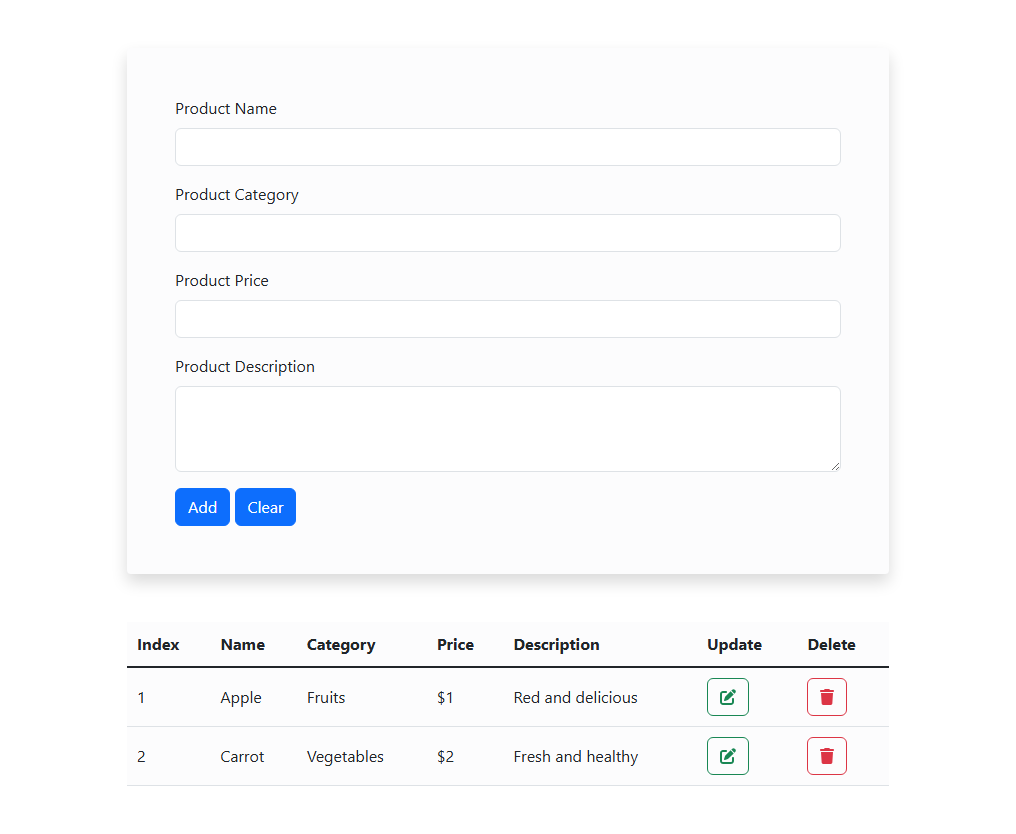
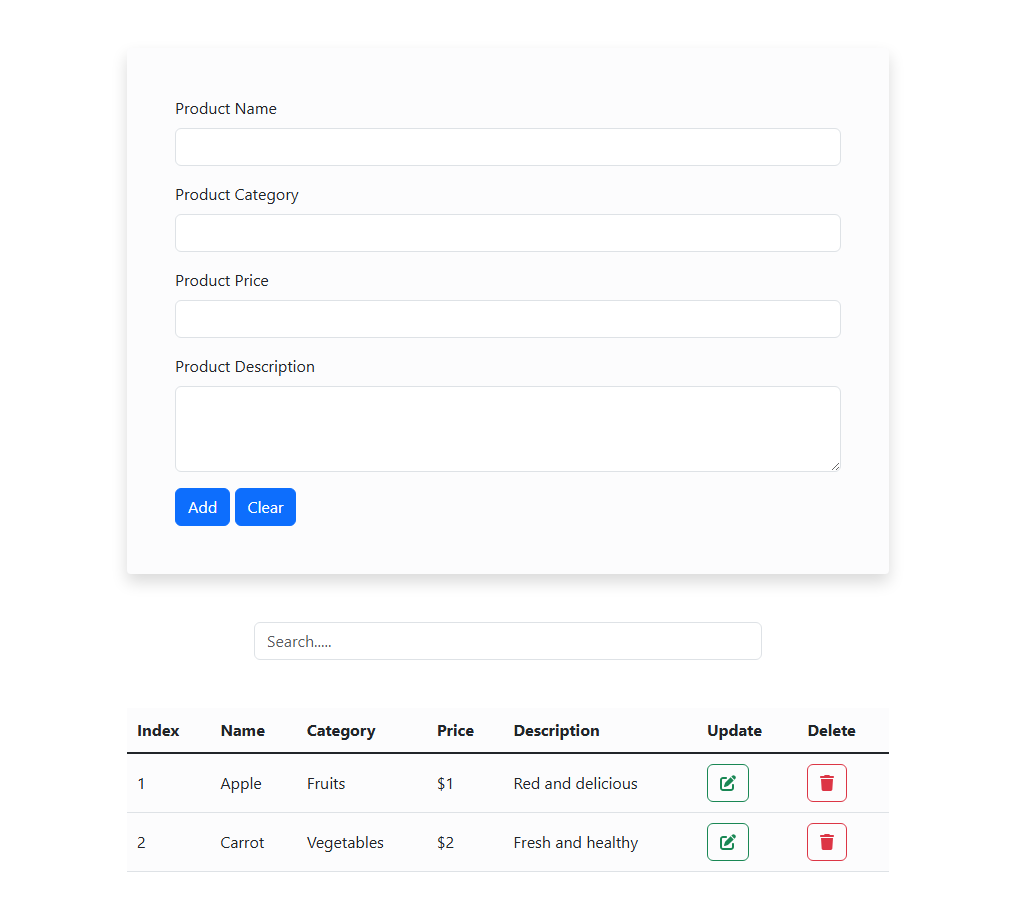
add search functionality

diff --git a/js/script.js b/js/script.js
@@ -4,6 +4,7 @@ const inputName = document.querySelector('input[id=name]');
 const inputCategory = document.querySelector('input[id=category]');
 const inputPrice = document.querySelector('input[id=price]');
 const inputDescription = document.querySelector('textarea[id=description]');
+const inputSearch = document.getElementById('search');
 const inputs = [inputName, inputCategory, inputPrice, inputDescription];
 
 const buttonAddUpdate = document.querySelector('button.add-update');
@@ -70,7 +71,7 @@ const updateAlert = function () {
   }
 };
 
-const updateTable = function () {
+const updateTable = function (products) {
   // Clear the exitsting products
   tableBody.textContent = '';
 
@@ -107,7 +108,7 @@ const updateTable = function () {
 };
 
 const updateUI = function () {
-  updateTable();
+  updateTable(products);
   updateAlert();
 };
 
@@ -148,7 +149,7 @@ const updateProduct = function () {
   }
   products[currentUpdatedProduct] = readInputs();
   currentUpdatedProduct = -1;
-  updateTable();
+  updateTable(products);
   toggleButtonStatus();
   clearInputs();
 };
@@ -187,3 +188,12 @@ tableBody.addEventListener('click', function (e) {
     deleteProduct(e.target.closest('tr').dataset.id);
   }
 });
+
+const updateDisplayedProducts = function (e) {
+  const filteredProducts = products.filter(product =>
+    product.name.toLowerCase().includes(this.value.toLowerCase())
+  );
+  updateTable(filteredProducts);
+};
+
+inputSearch.addEventListener('keyup', updateDisplayedProducts);

diff --git a/index.html b/index.html
@@ -43,6 +43,15 @@
       </div>
     </div>
 
+    <div class="my-5 w-50 mx-auto">
+      <input
+        type="text"
+        class="form-control"
+        id="search"
+        placeholder="Search....."
+      />
+    </div>
+
     <table class="w-75 mx-auto bg-light-subtle mb-5">
       <thead
         class="border-2 border-top-0 border-start-0 border-end-0 border-dark"
